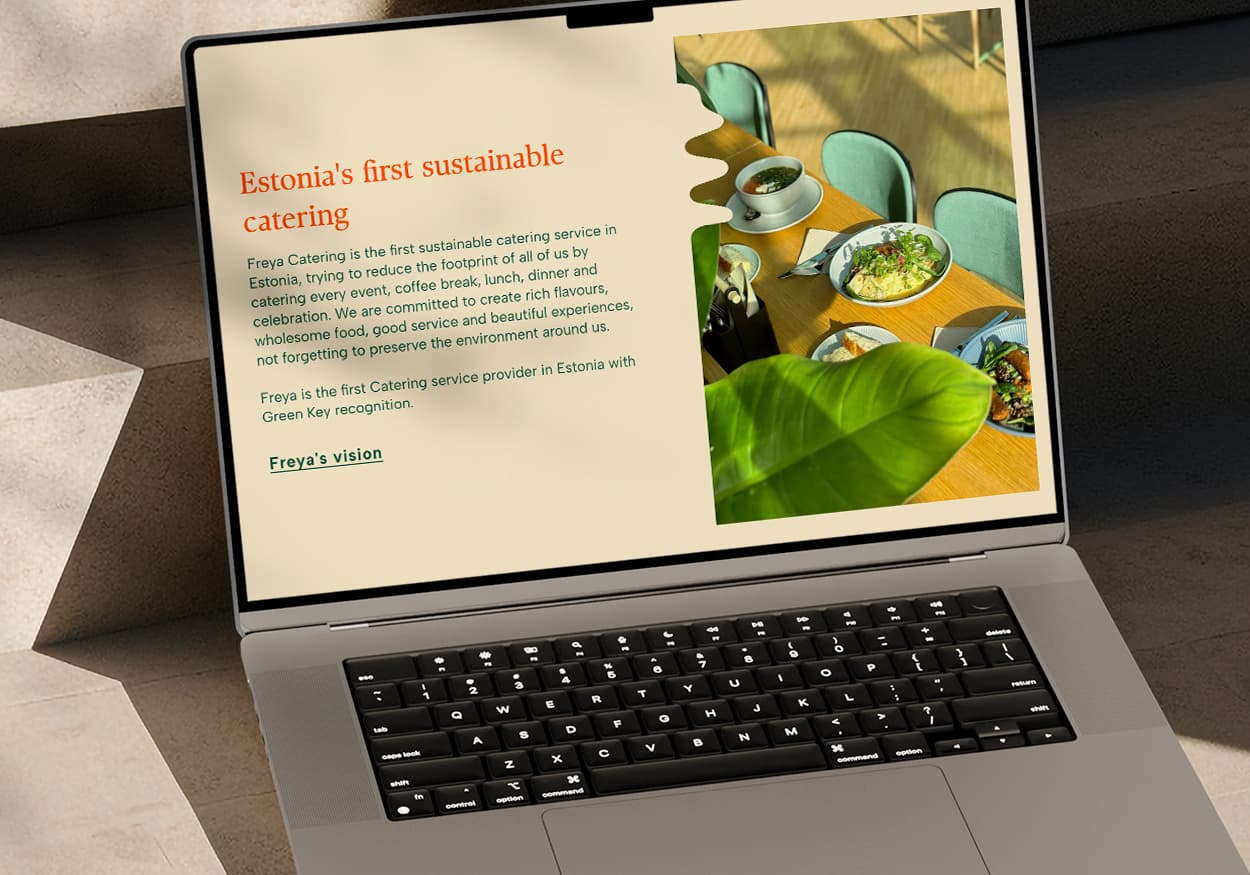
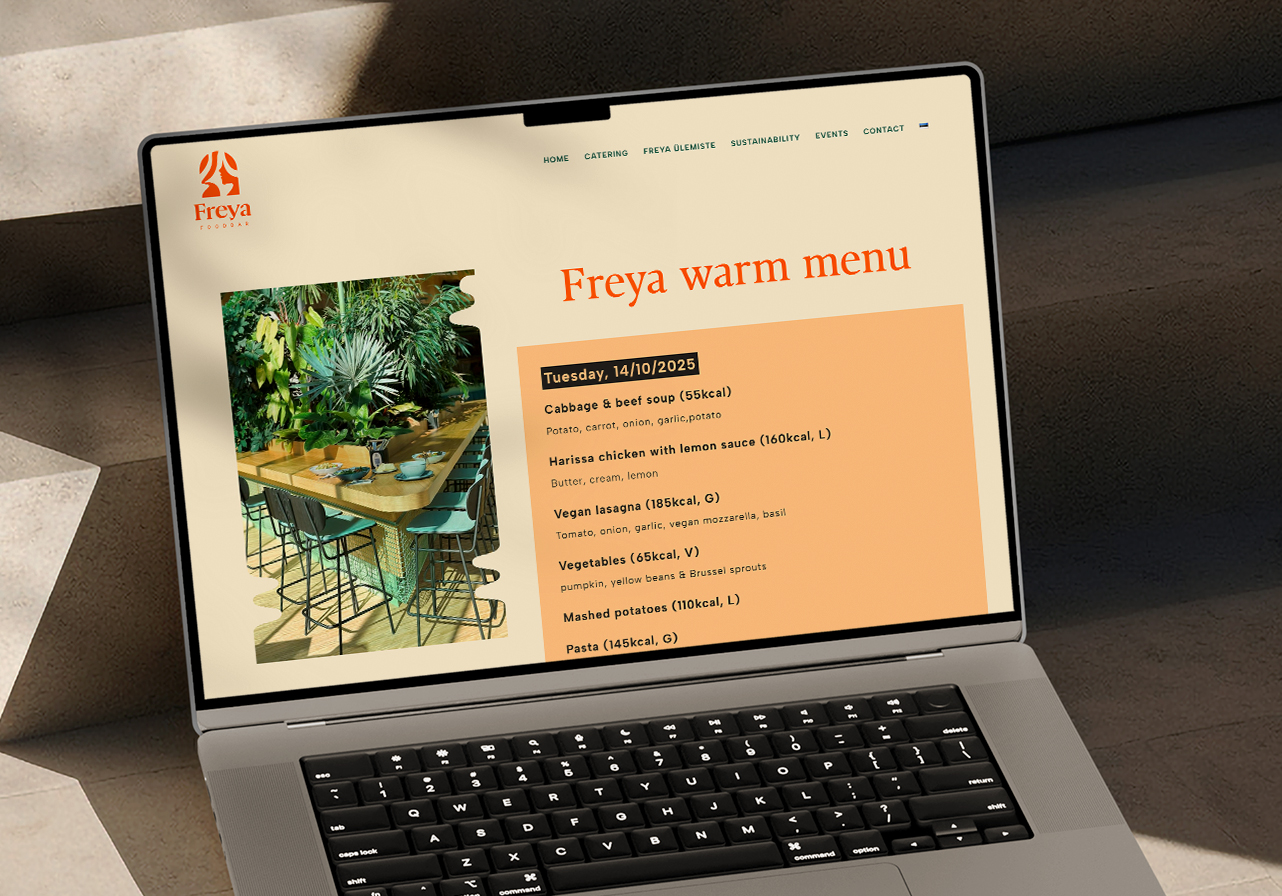
ackee analytics and images

diff --git a/index.html b/index.html
@@ -30,6 +30,7 @@
             href="https://api.fontshare.com/v2/css?f[]=satoshi@300,400,500,600,700&display=swap"
             rel="stylesheet"
         />
+        <script async src="https://ackee-production-7e23.up.railway.app/dcph35ptdmw8o3po.js" data-ackee-server="https://ackee-production-7e23.up.railway.app" data-ackee-domain-id="45ef6fd3-9ac0-4c48-9590-992ef2a45612"></script>
     </head>
     <body>
         <header>
@@ -381,19 +382,13 @@
                     <div class="portfolio-meta-row">
                         <h2>Freya Foodbar</h2>
                         <p>
-                            Freya is a sustainable catering service and a
-                            foodbar in Tallinn, Estonia. They are on a mission
-                            to redefine fast food, by offering a green
-                            alternative.
+                            Designed and developed a website with WordPress and Elementor Page builder. 
+                            Additionally, developed a dynamic daily menu system using <span>ACF</span> that supports distinct menu structures for different audiences.
                         </p>
                         <p>
-                            Site is built with Wordpress and Elementor page
-                            builder. There's a feature built with
-                            <span>ACF</span>, which displays the menu of the
-                            day. Contact form is built with
-                            <span>Contact Form 7</span>, using conditional
-                            fields.
-                        </p>
+                            The feature allows staff to easily manage daily menus from a central options page. 
+                            Custom PHP logic automatically displays the current week's menu and hides past days, 
+                            ensuring visitors always see the latest offerings.
                     </div>
                     <div class="portfolio-meta-row">
                         <div class="meta-item">

diff --git a/fudy.html b/fudy.html
@@ -19,6 +19,7 @@
         <link rel="icon" type="image/png" sizes="16x16" href="assets/icon.png">
         <link rel="apple-touch-icon" href="assets/icon.png">
         <link rel="stylesheet" href="style.css" />
+        <script async src="https://ackee-production-7e23.up.railway.app/dcph35ptdmw8o3po.js" data-ackee-server="https://ackee-production-7e23.up.railway.app" data-ackee-domain-id="45ef6fd3-9ac0-4c48-9590-992ef2a45612"></script>
         <script src="https://ajax.googleapis.com/ajax/libs/jquery/1.9.1/jquery.min.js"></script>
         <link rel="preconnect" href="https://fonts.googleapis.com" />
         <link rel="preconnect" href="https://fonts.gstatic.com" crossorigin />

diff --git a/moon.html b/moon.html
@@ -19,6 +19,7 @@
         <link rel="icon" type="image/png" sizes="16x16" href="assets/icon.png">
         <link rel="apple-touch-icon" href="assets/icon.png">
         <link rel="stylesheet" href="style.css" />
+        <script async src="https://ackee-production-7e23.up.railway.app/dcph35ptdmw8o3po.js" data-ackee-server="https://ackee-production-7e23.up.railway.app" data-ackee-domain-id="45ef6fd3-9ac0-4c48-9590-992ef2a45612"></script>
         <script src="https://ajax.googleapis.com/ajax/libs/jquery/1.9.1/jquery.min.js"></script>
         <link rel="preconnect" href="https://fonts.googleapis.com" />
         <link rel="preconnect" href="https://fonts.gstatic.com" crossorigin />

diff --git a/shots.html b/shots.html
@@ -19,6 +19,7 @@
         <link rel="icon" type="image/png" sizes="16x16" href="assets/icon.png">
         <link rel="apple-touch-icon" href="assets/icon.png">
         <link rel="stylesheet" href="style.css" />
+        <script async src="https://ackee-production-7e23.up.railway.app/dcph35ptdmw8o3po.js" data-ackee-server="https://ackee-production-7e23.up.railway.app" data-ackee-domain-id="45ef6fd3-9ac0-4c48-9590-992ef2a45612"></script>
         <script src="https://ajax.googleapis.com/ajax/libs/jquery/1.9.1/jquery.min.js"></script>
         <link rel="preconnect" href="https://fonts.googleapis.com" />
         <link rel="preconnect" href="https://fonts.gstatic.com" crossorigin />
